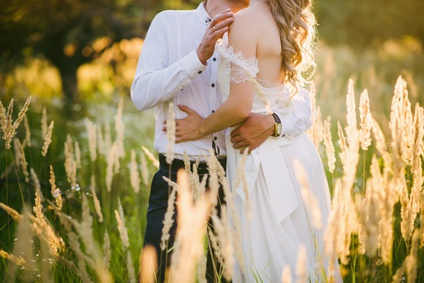
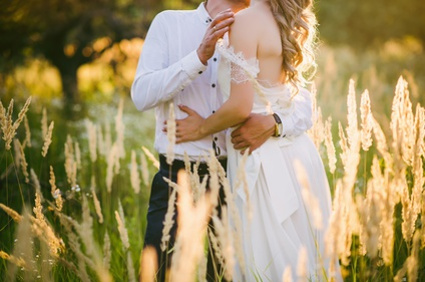
resized images, css fixes

diff --git a/app/assets/stylesheets/theme-style.css b/app/assets/stylesheets/theme-style.css
@@ -455,6 +455,7 @@ nav a#pull {
 .Share-instantly-right p{
 	color: #AEAEAE;
 	line-height: 1.8em;
+	font-size: 2em;
 }
 .head-para{
 	width: 70%;
